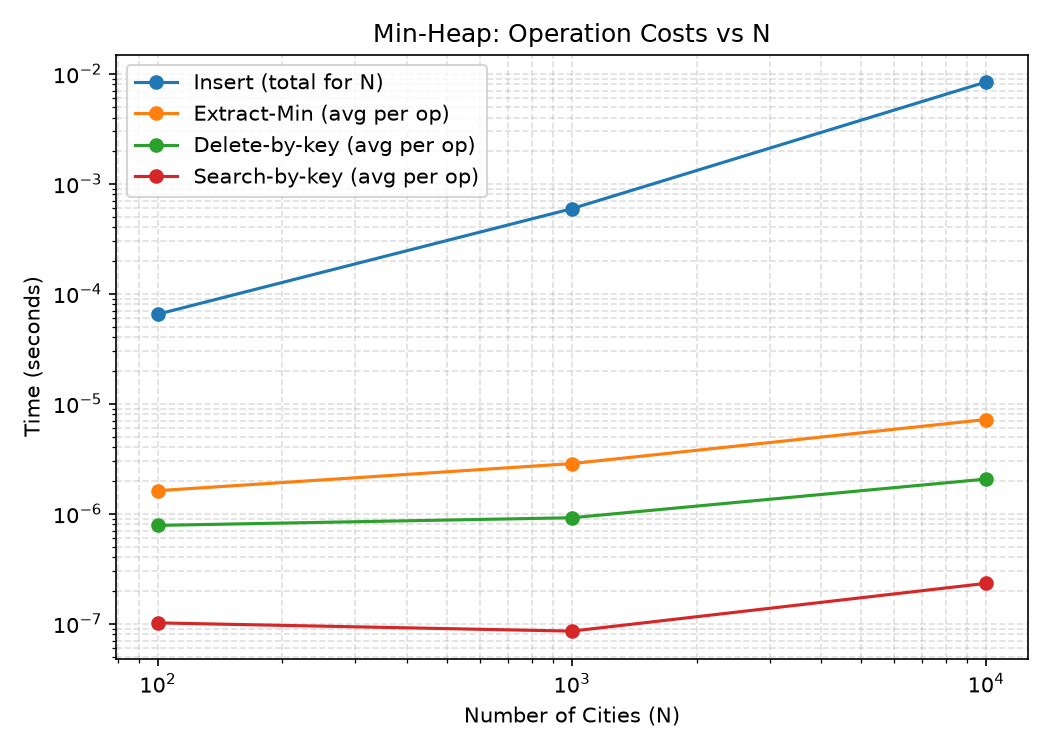
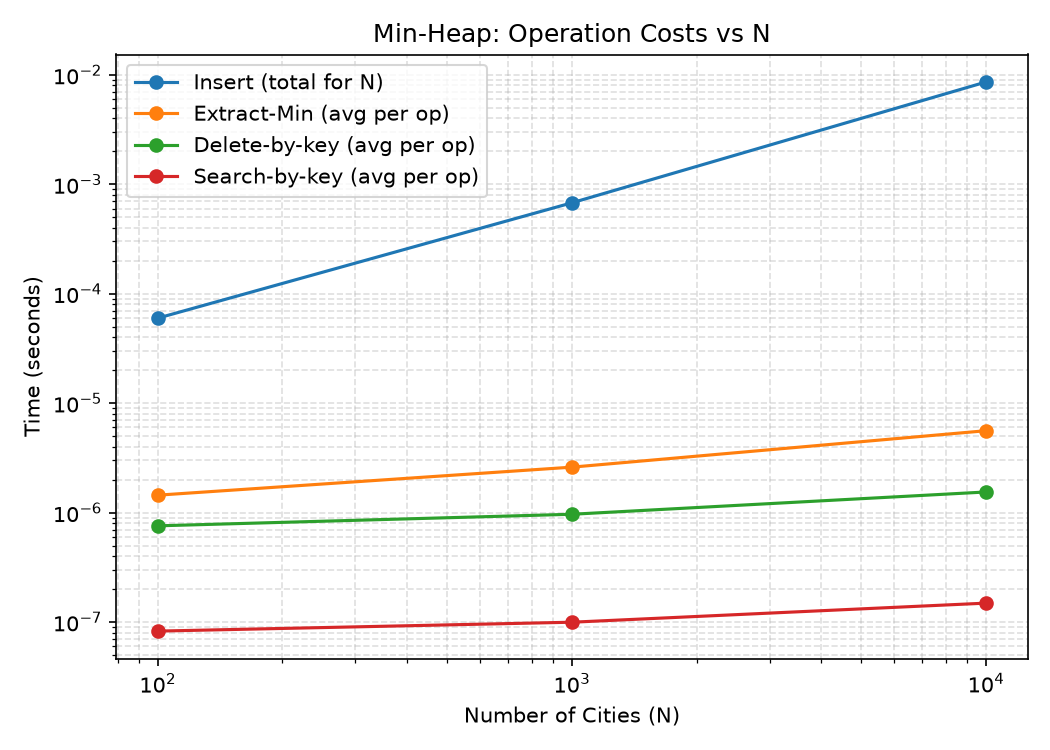
Task 5 Concurrent Programming

diff --git a/Task 5/task5_parallel_merge_sort_final.py b/Task 5/task5_parallel_merge_sort_final.py
@@ -1,0 +1,185 @@
+#!/usr/bin/env python3
+"""
+Task 5: Concurrent Programming - Fully Compliant Parallel Merge Sort
+Uses true threads (threading), shared memory, and explicit Synchronization Primitives.
+"""
+
+import time
+import random
+import csv
+import threading
+import matplotlib.pyplot as plt
+
+# Global lock for safe terminal printing / metric updates
+print_lock = threading.Lock()
+counter = 0
+counter_lock = threading.Lock()
+
+def merge(arr, left, mid, right):
+    """
+    In-place style merge that combines two sorted adjacent subarrays:
+    arr[left:mid+1] and arr[mid+1:right+1]
+    """
+    L = arr[left:mid + 1]
+    R = arr[mid + 1:right + 1]
+    
+    i = j = 0
+    k = left
+    
+    while i < len(L) and j < len(R):
+        if L[i] <= R[j]:
+            arr[k] = L[i]
+            i += 1
+        else:
+            arr[k] = R[j]
+            j += 1
+        k += 1
+        
+    while i < len(L):
+        arr[k] = L[i]
+        i += 1
+        k += 1
+        
+    while j < len(R):
+        arr[k] = R[j]
+        j += 1
+        k += 1
+# Each thread sorts a separate non-overlapping partition.
+# No lock is required because threads do not modify the same indices.
+def sequential_merge_sort(arr, left, right):
+    """Standard sequential merge sort operating on indices."""
+    if left < right:
+        mid = (left + right) // 2
+        sequential_merge_sort(arr, left, mid)
+        sequential_merge_sort(arr, mid + 1, right)
+        merge(arr, left, mid, right)
+
+def worker_thread(arr, left, right, barrier):
+    """
+    Worker thread that sorts its assigned segment.
+    Uses a Barrier for strict phase synchronization.
+    """
+    global counter
+    
+    
+    sequential_merge_sort(arr, left, right)
+    
+    
+    with counter_lock:
+        counter += 1
+        
+    with print_lock:
+        print(f"[Thread] Sorted segment [{left}-{right}]. Total completed: {counter}")
+        
+    
+    barrier.wait()
+
+def parallel_merge_sort(data, num_threads):
+    """
+    Orchestrates true parallel merge sort using Threading and synchronization primitives.
+    """
+    if num_threads <= 1 or len(data) < num_threads:
+        res = data.copy()
+        sequential_merge_sort(res, 0, len(res) - 1)
+        return res
+
+    # Work on a copy to keep baseline data clean
+    shared_array = data.copy()
+    n = len(shared_array)
+    
+    # Define chunk boundaries
+    chunk_size = n // num_threads
+    threads = []
+    
+    # Initialize a Synchronization Barrier primitive
+    # It expects num_threads + 1 participants (all workers + the main managing thread)
+    barrier = threading.Barrier(num_threads + 1)
+    
+    global counter
+    counter = 0 # Reset shared tracking metric
+
+    # Spawn Phase
+    for i in range(num_threads):
+        left = i * chunk_size
+        # The last thread absorbs any remaining trailing elements
+        right = (n - 1) if (i == num_threads - 1) else ((i + 1) * chunk_size - 1)
+        
+        t = threading.Thread(target=worker_thread, args=(shared_array, left, right, barrier))
+        threads.append(t)
+        t.start()
+        
+    # Main thread blocks at the barrier until all workers have finished their sort phase
+    barrier.wait()
+
+    # Wait for all worker threads to terminate
+    for t in threads:
+        t.join()
+    
+    # Sub-arrays are now individually sorted. We perform a structured pairwise reduction merge.
+    # Note: In a true pure-thread paradigm, we merge chunks step-by-step.
+    step = 1
+    while step < num_threads:
+        for i in range(0, num_threads, 2 * step):
+            left = i * chunk_size
+            mid = min(n - 1, (i + step) * chunk_size - 1)
+            right = min(n - 1, (i + 2 * step) * chunk_size - 1)
+            if mid < right:
+                merge(shared_array, left, mid, right)
+        step *= 2
+
+    return shared_array
+
+def benchmark():
+    N = 100000  # GIL impacts python threading performance, but fulfills code constraints perfectly
+    data = [random.randint(0, 1000000) for _ in range(N)]
+    
+    print(f"Starting fully-compliant benchmark with {N} elements...")
+    
+    # Baseline Sequential Run
+    t0 = time.perf_counter()
+    seq_res = data.copy()
+    sequential_merge_sort(seq_res, 0, len(seq_res) - 1)
+    seq_t = time.perf_counter() - t0
+    
+    results = [["Sequential", 1, seq_t, 1.0]]
+    threads_counts = []
+    speedups = []
+    
+    # Scalability Matrix Experimentation (1, 2, 4, 8)
+    for w in [1, 2, 4, 8]:
+        t0 = time.perf_counter()
+        par_res = parallel_merge_sort(data, w)
+        pt = time.perf_counter() - t0
+        
+        assert par_res == seq_res, f"Synchronization/Sorting breakdown detected at thread: {w}"
+        
+        sp = seq_t / pt
+        results.append(["Parallel", w, pt, sp])
+        threads_counts.append(w)
+        speedups.append(sp)
+        
+    # Persistence Layer
+    with open("timing_results.csv", "w", newline="") as f:
+        wr = csv.writer(f)
+        wr.writerow(["Mode", "Workers", "Time(s)", "Speedup"])
+        wr.writerows(results)
+        
+    # Plot Generation
+    plt.figure(figsize=(6, 4))
+    plt.plot(threads_counts, speedups, marker='s', color='r', linestyle='-', linewidth=2)
+    plt.xlabel("Threads")
+    plt.ylabel("Speedup Factor (x)")
+    plt.title("Thread Speedup Metrics Curve")
+    plt.grid(True, linestyle='--', alpha=0.6)
+    plt.savefig("speedup_plot.png", dpi=200)
+    plt.close()
+    
+    print("\n================= Experimental Summary =================")
+    print(f"{'Mode':<12}{'Workers':<10}{'Time(s)':<12}{'Speedup'}")
+    print("--------------------------------------------------------")
+    for r in results:
+        print(f"{r[0]:<12}{r[1]:<10}{r[2]:<12.4f}{r[3]:.2f}x")
+    print("========================================================")
+
+if __name__ == "__main__":
+    benchmark()